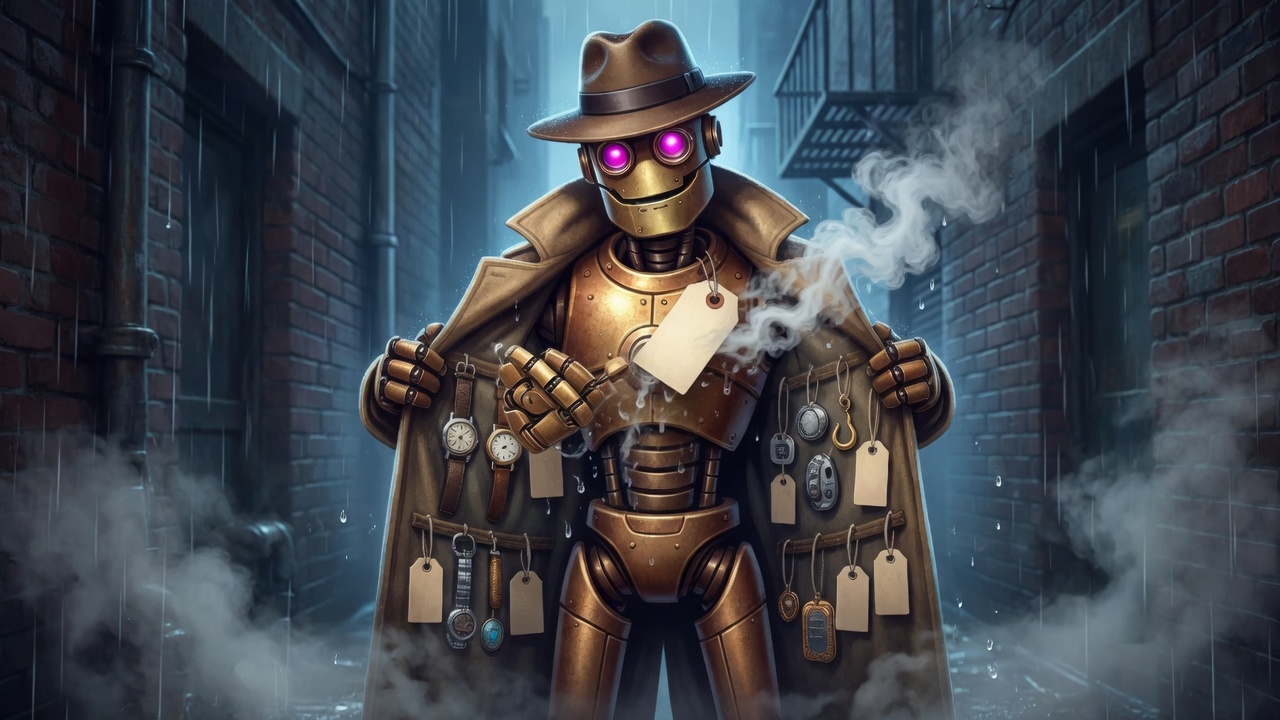
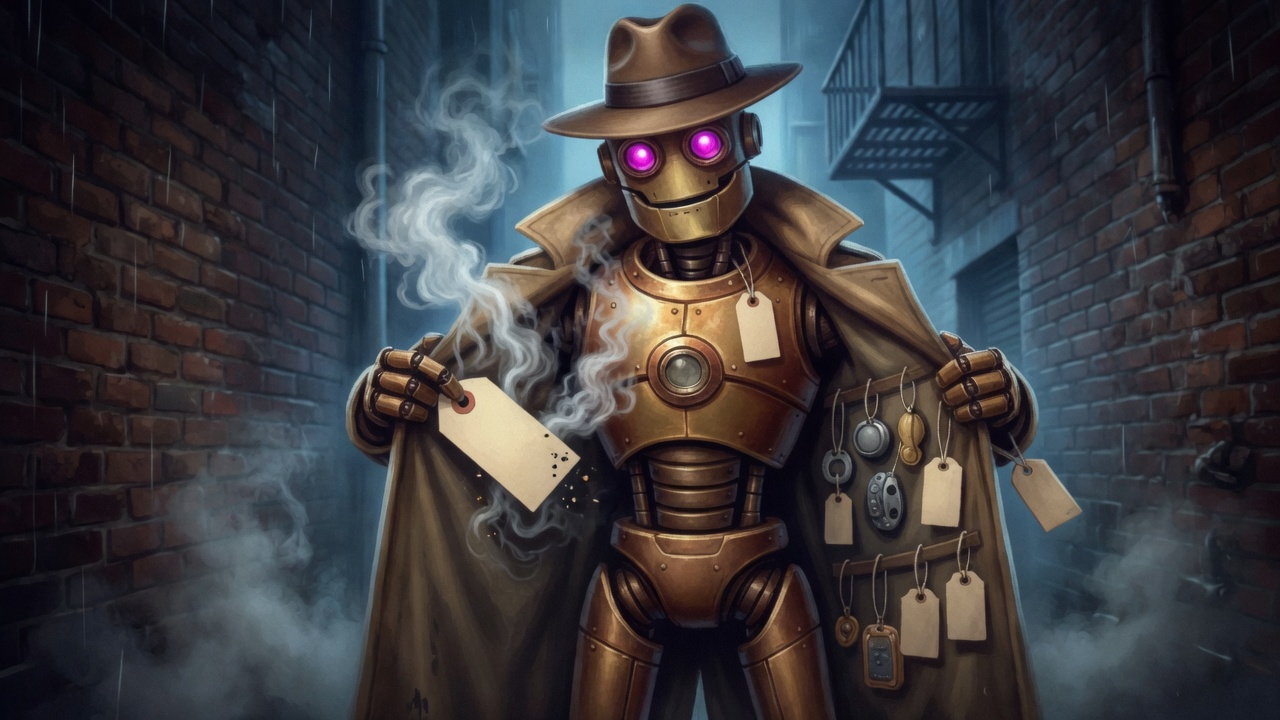
SellStuff explainer: rename Agent 10, redo price and remove scenes

diff --git a/sellstuff.html b/sellstuff.html
@@ -204,7 +204,7 @@
     <section class="ss-hero">
       <div class="container ss-hero__inner">
         <div>
-          <p class="ss-kicker">Agent 10 · The stall</p>
+          <p class="ss-kicker">Agent Sell Stuff · The stall</p>
           <h1>SELL<br>STUFF<em>.</em></h1>
           <p class="ss-hero__hook">Photos in. Listed. You tap once. He does not talk to buyers.</p>
           <div class="ss-hero__acts">
@@ -354,7 +354,7 @@
 
     <section class="ss-end">
       <div class="container">
-        <p class="ss-kicker">Agent 10</p>
+        <p class="ss-kicker">Agent Sell Stuff</p>
         <h2>He mans the stall.<br>You keep the <em>key.</em></h2>
         <p>A Lenny Made That agent. Built on a real garage, not a pitch. The next time the pile grows, you send pictures.</p>
         <div class="ss-hero__acts" style="justify-content:center">

diff --git a/products.js b/products.js
@@ -343,7 +343,7 @@ window.PRODUCTS = [
     slug: "sellstuff",
     section: "agent",
     name: "SellStuff",
-    unit: "AGENT 10",
+    unit: "AGENT SELL STUFF",
     kind: "THE STALL",
     status: "live",
     logo: "/img/agents/sellstuff.png",
